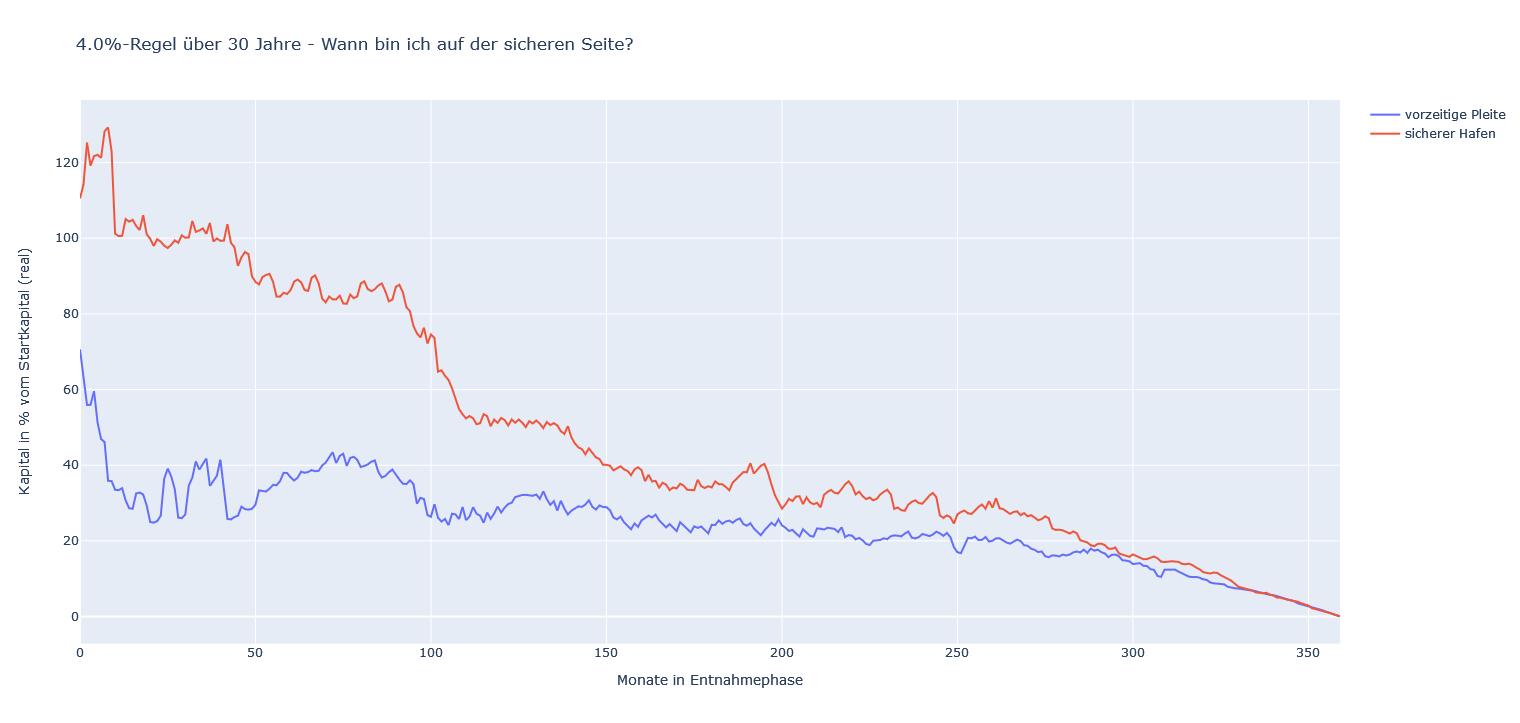
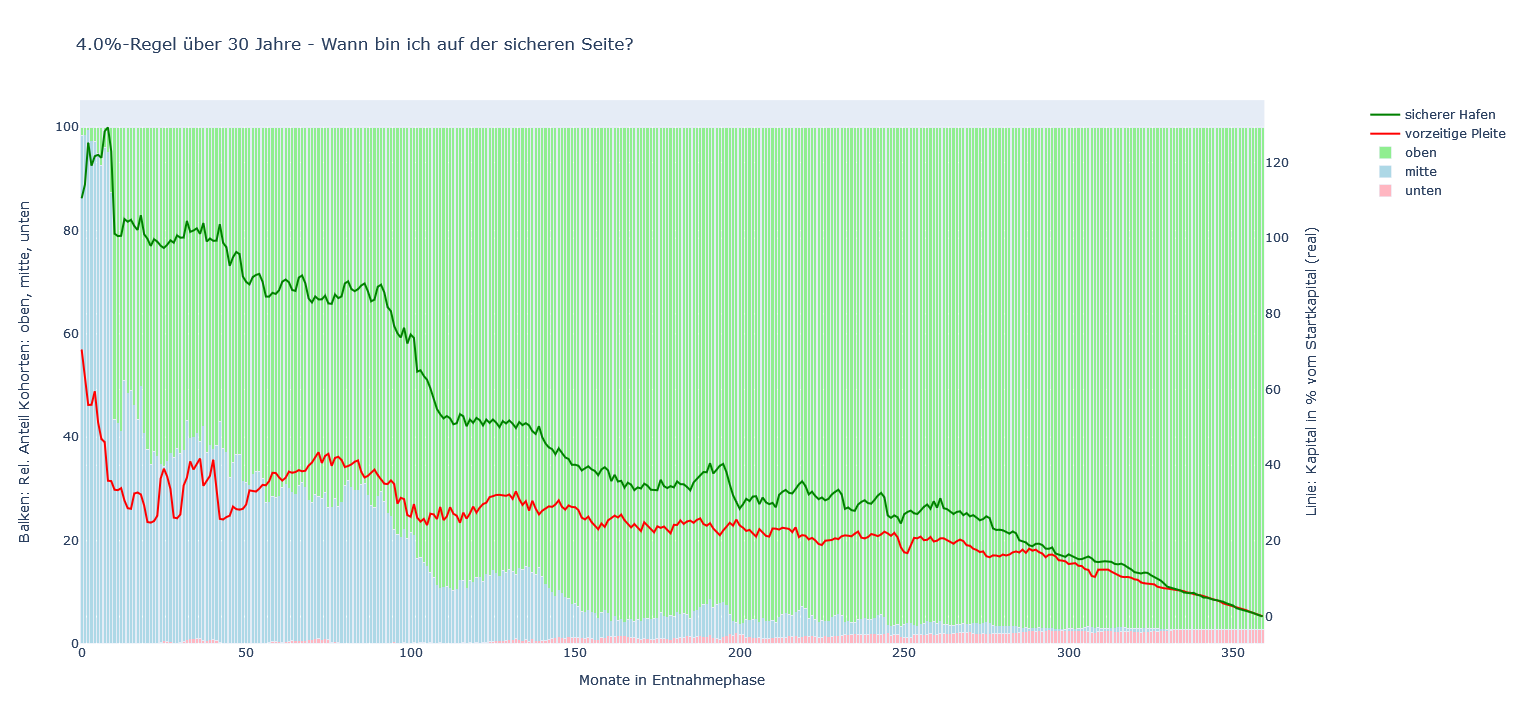
Erweiterung Balken und Liniegrafik in Auswertung

diff --git a/SichereEntnahmePleiteRisiko.py b/SichereEntnahmePleiteRisiko.py
@@ -11,6 +11,7 @@ from SEsimulation.mDate import mDate
 from SEsimulation import SEsimulation
 import plotly.graph_objects as go
 from plotly.subplots import make_subplots
+import plotly.express as px
 
 if __name__ == "__main__":
 
@@ -57,28 +58,76 @@ if __name__ == "__main__":
             else:
                 negresults = negresults.append(s.latest_simulation[0]['trial'].end_port)
 
-            allresults.append(s.latest_simulation)
+            allresults = allresults.append(s.latest_simulation[0]['trial'].end_port)
 
+    # Ergänzung um Balkengrafik mit 3 Gruppen:
+    # Oberhalb der roten Grenze, unterhalb der blauen Grenze, zwischen beiden Grenzen
+
+    vorzeitigePleite = posresults.min()
+    sichererHafen = negresults.max()
+
+    oben = allresults.gt(sichererHafen)
+    unten = allresults.lt(vorzeitigePleite)
+
+    numoben = oben.sum(axis=0)
+    numunten = unten.sum(axis=0)
+    nummitte = (allresults.__len__() - (numoben + numunten))
+
+    # Kapitalverlauf: Sicherer Hafen / vrozeitige Pleiten
     fig = make_subplots()
-
     # Add traces
     fig.add_trace(go.Scatter(x=posresults.min().index, y=posresults.min(), name="vorzeitige Pleite"))
-
     fig.add_trace(go.Scatter(x=negresults.max().index, y=negresults.max(), name="sicherer Hafen"))
-
     # Add figure title
-
     perc = s.withdrawal['fixed_pct']
     year = s.simulation['n_ret_years']
     text = "{}%-Regel über {} Jahre - Wann bin ich auf der sicheren Seite?".format(perc, year)
     fig.update_layout(title_text = text)
-
     # Set x-axis title
     fig.update_xaxes(title_text="Monate in Entnahmephase")
-
     # Set y-axes titles
     fig.update_yaxes(title_text="Kapital in % vom Startkapital (real)")
+    fig.show()
 
+    # Balkenkgrafik: Relativer Anteil der Kohorten: unten, mitten, oben
+    fig = px.bar(x=numoben.index,y=[numunten, nummitte, numoben])
+    text = "{}%-Regel über {} Jahre - Wann bin ich auf der sicheren Seite?".format(perc, year)
+    fig.update_layout(title_text = text)
+    # Set x-axis title
+    fig.update_xaxes(title_text="Monate in Entnahmephase")
+    # Set y-axes titles
+    fig.update_yaxes(title_text="rel. Anteil Kohorten: oben, mitte, unten")
+    fig.show()
+
+    # Kombinierte Grafik: Verlauf mit Balken
+    fig = make_subplots(specs=[[{"secondary_y": True}]])
+    # Add traces
+    fig.add_trace(go.Bar(x=numoben.index, y=100 * numunten / allresults.__len__(),
+                         name = 'unten',
+                         marker = dict(color='lightpink')), secondary_y = False)
+
+    fig.add_trace(go.Bar(x=numoben.index, y=100 * nummitte / allresults.__len__(),
+                         name = 'mitte',
+                         marker = dict(color='lightblue')), secondary_y = False)
+
+    fig.add_trace(go.Bar(x=numoben.index, y=100 * numoben / allresults.__len__(),
+                         name = 'oben',
+                         marker = dict(color='lightgreen')), secondary_y = False)
+
+    fig.add_trace(go.Scatter(x=posresults.min().index, y=posresults.min(),
+                             name = "vorzeitige Pleite",
+                             marker = {'color': 'red'}), secondary_y = True)
+    fig.add_trace(go.Scatter(x=negresults.max().index, y=negresults.max(),
+                             name = "sicherer Hafen",
+                             marker = {'color': 'green'}), secondary_y = True)
+
+    text = "{}%-Regel über {} Jahre - Wann bin ich auf der sicheren Seite?".format(perc, year)
+    fig.update_layout(title_text = text, barmode = 'stack')
+    # Set x-axis title
+    fig.update_xaxes(title_text = "Monate in Entnahmephase")
+    # Set y-axes titles
+    fig.update_yaxes(title_text = "Linie: Kapital in % vom Startkapital (real)", secondary_y = True)
+    fig.update_yaxes(title_text = "Balken: Rel. Anteil Kohorten: oben, mitte, unten", secondary_y = False)
     fig.show()
 
     endTime = time.time()

diff --git a/README.md b/README.md
@@ -115,10 +115,12 @@ Das Python-Skript [SichereEntnahmeCAPE.py](https://github.com/ThoEngel/rentenpla
 
 ### 2.5. Risikoermittlung während der Entnahmephase
 
-Die folgende Implementierung und Auswertung bezieht sich auf den [Finanzen?Erklärt! Blog](https://www.finanzen-erklaert.de/) Artikel: [Erkennen, wenn die Pleite droht – besteht während der Entnahmephase Handlungsbedarf?](https://www.finanzen-erklaert.de/wann-besteht-in-der-entnahmephase-handlungsbedarf/)
+Die folgende Implementierung und Auswertung bezieht sich auf den [Finanzen?Erklärt! Blog](https://www.finanzen-erklaert.de/) 
+Artikel: [Erkennen, wenn die Pleite droht – besteht während der Entnahmephase Handlungsbedarf?](https://www.finanzen-erklaert.de/wann-besteht-in-der-entnahmephase-handlungsbedarf/)
 
 Mit Hilfe des folgenden Python-Skripts [SichereEntnahmePleiteRisiko.py](https://github.com/ThoEngel/rentenplanung/blob/main/SichereEntnahmePleiteRisiko.py) lässt sich die folgende Auswertung ermitteln:
 
+**Achtung**: Die Achsenbeschriftung ist umgedreht zum Original-Artikel.
 ![Sichere Entnahme Pleiterisiko](docu/SichereEntnahmePleiteRisiko_1.png)
 
 Mittels der folgenden Konfiguration kann die Entnahmerate (fixed_pct) sowie der Entnahmezeitraum (n_ret_years) an seine Bedürfnisse angepasst werden:
